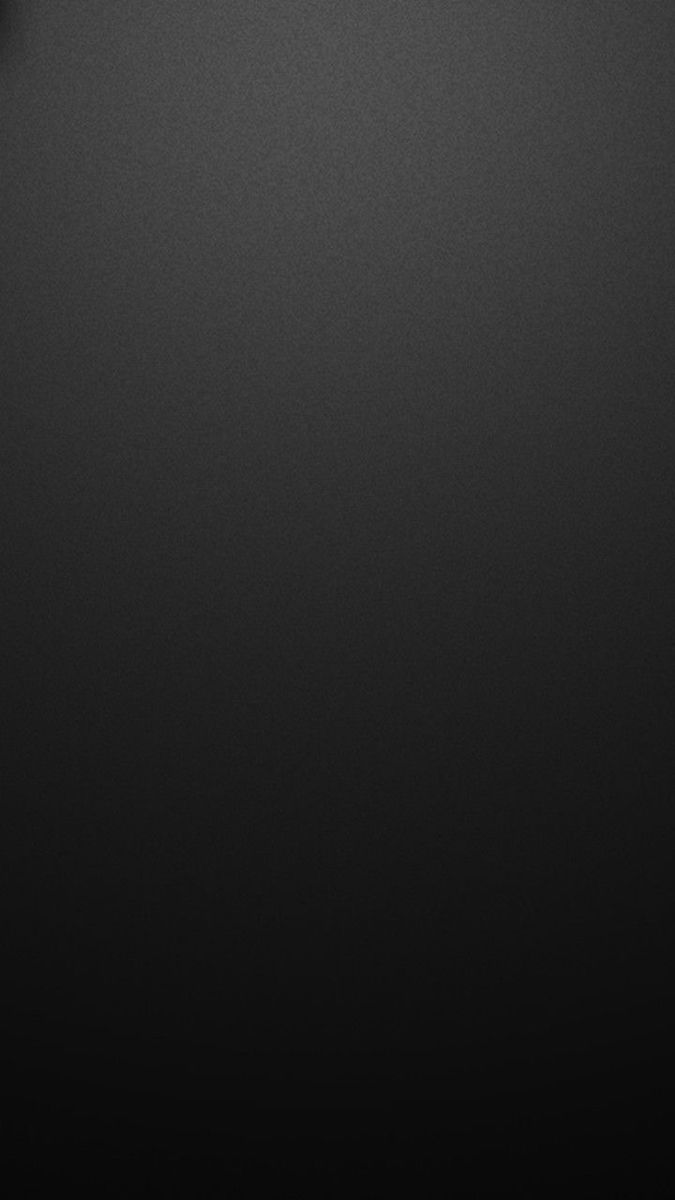
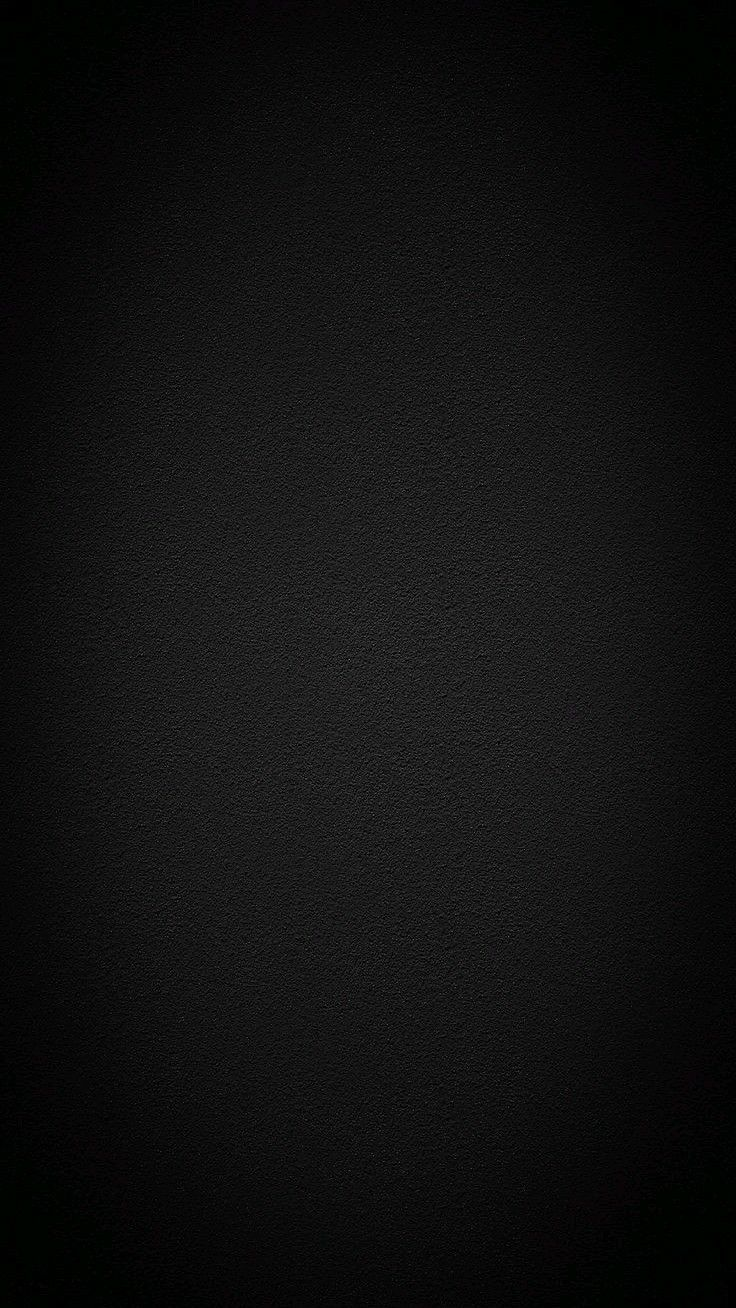
Refatorar CSS e atualizar imagem de background
- Melhorar responsividade do layout
- Atualizar imagem de fundo (bk-body.jpg)
- Ajustes no index.html

diff --git a/index.html b/index.html
@@ -49,27 +49,34 @@
 
 <!-- PRODUTOS -->
 <section id="produtos" class="product-container">
-  <h2>Nossos Produtos</h2>
+  <h2 class="h2-section">Nossos Produtos</h2>
 
   <div class="cards">
     <div class="card">
-      <img src="src/img/cabeceira galeria-01.jpg"  width="350px" height="280px">
+      <img src="src/img/cabeceira galeria-01.jpg"  width="250px" height="230px">
       <h3 class="h3-card"> Cabeceira e cama </h3>
-      <p class="p-card">Conforto elevado ao máximo.</p>
+      <p class="p-card">Design sofisticado para um descanso perfeito.</p>
       <a class="btn-card">Mais Detalhes</a>
     </div>
 
     <div class="card">
-      <img src="src/img/sofacard.png" width="350px" height="280px">
+      <img src="src/img/sofacard.png" width="250px" height="230px">
       <h3 class="h3-card"> Sofá e Chaise </h3>
-      <p class="p-card">Design atemporal e conforto absoluto.</p>
+      <p class="p-card">Conforto e estilo para transformar seu ambiente.</p>
       <a class="btn-card">Mais Detalhes</a>
     </div>
 
     <div class="card">
-      <img src="src/img/poltrona luxjp.jpg"  width="350px" height="280px">
+      <img src="src/img/poltrona azeri 4.jpg"  width="250px" height="230px">
       <h3 class="h3-card"> Poltrona Luxo </h3>
-      <p class="p-card">Conforto elevado ao máximo.</p>
+      <p class="p-card">Elegância e conforto que elevam qualquer espaço.</p>
+      <a class="btn-card">Mais Detalhes</a>
+    </div>
+
+    <div class="card">
+      <img src="src/img/recamier violeta quarto.png"  width="250px" height="230px">
+      <h3 class="h3-card"> Recamier </h3>
+      <p class="p-card">Charme e versatilidade para complementar sua decoração.</p>
       <a class="btn-card">Mais Detalhes</a>
     </div>
   </div>
@@ -77,7 +84,7 @@
 
 <!-- GALERIA -->
 <section id="galeria" class="gallery-container">
-  <h2>Nossa Galeria</h2>
+  <h2 class="h2-section">Nossa Galeria</h2>
 
   <div class="gallery grid-gallery">
     <img class="img-gallery" src="src/img/cabeceira e cama savana e painel com led 2.jpg">
@@ -88,6 +95,9 @@
     <img class="img-gallery" src="src/img/recamier violeta.png">
     <img class="img-gallery" src="src/img/Sofá Organico 2 lugares.jpg">
     <img class="img-gallery" src="src/img/poltrona redonda moderna para sala.jpg" alt="">
+    <img class="img-gallery" src="src/img/kit puff em sued 2.jpg" alt="">
+    <img class="img-gallery" src="src/img/sofa modular tomazzo.jpg">
+    <img class="img-gallery" src="src/img/poltrona azeri 3.jpg" alt="">
     <img class="img-gallery" src="src/img/recamier violeta sala 2.png" alt="">
   </div>
 </section>
@@ -98,9 +108,7 @@
     <div>
       <h2>Sobre Nós</h2>
       <p>
-        Somos especialistas em estofados sob medida,
-        combinando conforto, sofisticação e materiais
-        de altíssima qualidade.
+        Com mais de 10 anos de experiência, nossa empresa começou em São Paulo, onde atuamos por três anos, e depois nos mudamos para Brasília, no Distrito Federal. Ao longo dessa trajetória, atendemos mais de 5.000 clientes, consolidando nossa reputação em qualidade, design e inovação. Nosso ramo principal é a área de cabeceiras e estofados em geral, sempre priorizando o conforto e a satisfação dos nossos clientes.
       </p>
     </div>
     <img src="images/sobre.jpg">
@@ -116,14 +124,14 @@
       <input placeholder="Nome">
       <input placeholder="E-mail">
       <input placeholder="Telefone">
-      <textarea placeholder="Mensagem"></textarea>
+      <textarea placeholder="Digite aqui qual é a sua duvida ou pergunta"></textarea>
       <button class="btn-dourado">Enviar</button>
     </form>
 
     <div class="info">
-      <p>📞 (11) 1234-5678</p>
-      <p>✉ contato@seudominio.com</p>
-      <p>📍 São Paulo - SP</p>
+      <p>📞 (61) 9913-0838 </p>
+      <p>✉ mobiliipejk@gmail.com</p>
+      <p>📍 Braasília - DF</p>
       <a class="btn-whatsapp" href="https://wa.me/551112345678" target="_blank">
         Falar no WhatsApp
       </a>

diff --git a/css/style.css b/css/style.css
@@ -3,6 +3,7 @@
   padding: 0;
   box-sizing: border-box;
   font-family: 'Segoe UI', sans-serif;
+  
 }
 
 body {
@@ -12,17 +13,25 @@ body {
   color: #fff;
 }
 
+.h2-section {
+    text-align: center;
+    font-size: 40px;
+    margin: 20px 0;
+    text-shadow: 2px 1px 2px rgb(95, 91, 25);
+  }
+
 /* HEADER */
 .header {
   display: flex;
   justify-content: space-between;
   align-items: center;
-  padding: 20px 50px;
+  padding: 15px 30px;
   /*background-image: linear-gradient(178deg, rgb(6, 6, 6)35%, rgb(10, 10, 10)60%, rgba(14, 13, 13, 0.824));*/
-  background-color: rgb(0, 0, 0);
+  background-color: #141414;
   position: sticky;
   top: 0;
   z-index: 10;
+  border-bottom: solid 1px rgba(123, 123, 3, 0.5);
 }
 
 .logo {
@@ -83,7 +92,7 @@ body {
   width: 100%;
   height: 100%;
   padding: 120px 80px;
-  background-image: radial-gradient( rgba(24, 23, 23, 0.268)35%, rgba(18, 16, 16, 0.778)50%, rgba(0, 0, 0, 0.974)78%);
+  background-image: radial-gradient( rgba(24, 23, 23, 0.268)35%, rgba(18, 16, 16, 0.527)50%, rgba(0, 0, 0, 0.856)78%);
 }
 
 .hero-logo {
@@ -128,21 +137,12 @@ body {
   background: #c9a24d;
 }
 
-.gallery-container {
-  background: #141414;
-}
-
 /* section product CARDS */
-
 .product-container {
   padding: 10px;
   text-align: center;
   background-image: url('../src/img/bk-body.jpg');
-}
-.product-container h2 {
-  padding: 10px 3px;
-  font-size: 45px;
-  text-shadow: 3px 2px 1px rgb(0, 0, 0);
+  background-size: contain;
 }
 
 .cards {
@@ -158,19 +158,20 @@ body {
 
 .card {
   display: block;
-  min-width: 260px;
-  min-height: 400px;
+  min-width: 250px;
+  max-width: 254px;
+  min-height: 380px;
   margin-bottom: 10px;
   background: #1c1c1c;
   text-align: center;
-  border: 1px solid rgba(123, 123, 3, 0.5);
+  border: 2px solid rgba(123, 123, 3, 0.5);
   box-shadow: 5px 15px 10px rgb(0, 0, 0);
 }
+
 .card:hover {
   transform: rotateX(360deg);
-  transition: 3s;
+  transition: 2s;
 }
-
 
 .h3-card{
   margin: 3px;
@@ -180,8 +181,8 @@ body {
 .p-card{
   padding: 0 10px;
   margin-bottom: 20px;
+  word-wrap: normal;
 }
-
 
 .btn-card {
   background: linear-gradient(135deg, #d4af37, #a8862c);
@@ -194,17 +195,36 @@ body {
   background: linear-gradient(135deg, #d1a21e, #d4af37);
 }
 
+
 /* GALERIA */
+.gallery-container {
+  padding-top: 10px;
+  padding-bottom: 20px;
+  background-color: #141414;
 
-
-.img-gallery{
-  width: 250px;
-  height: 350px;
 }
 
+.gallery {
+  margin: auto;
+  padding: 10px;
+  display: flex;
+  flex-wrap: wrap;
+  width: 95%;
+  align-items: center;
+  justify-content: center;
+}
+
+.img-gallery{
+  width: 180px;
+  height: 180px;
+  margin: 10px;
+  border: 2px solid rgba(123, 123, 3, 0.5);
+  box-shadow: 5px 15px 10px rgb(0, 0, 0);
+}
 
 .gallery img:hover {
-  transform: scale(1.05);
+  transform: scale(1.70);
+  transition: 1s;
 }
 
 @media (max-width: 1200px) {
